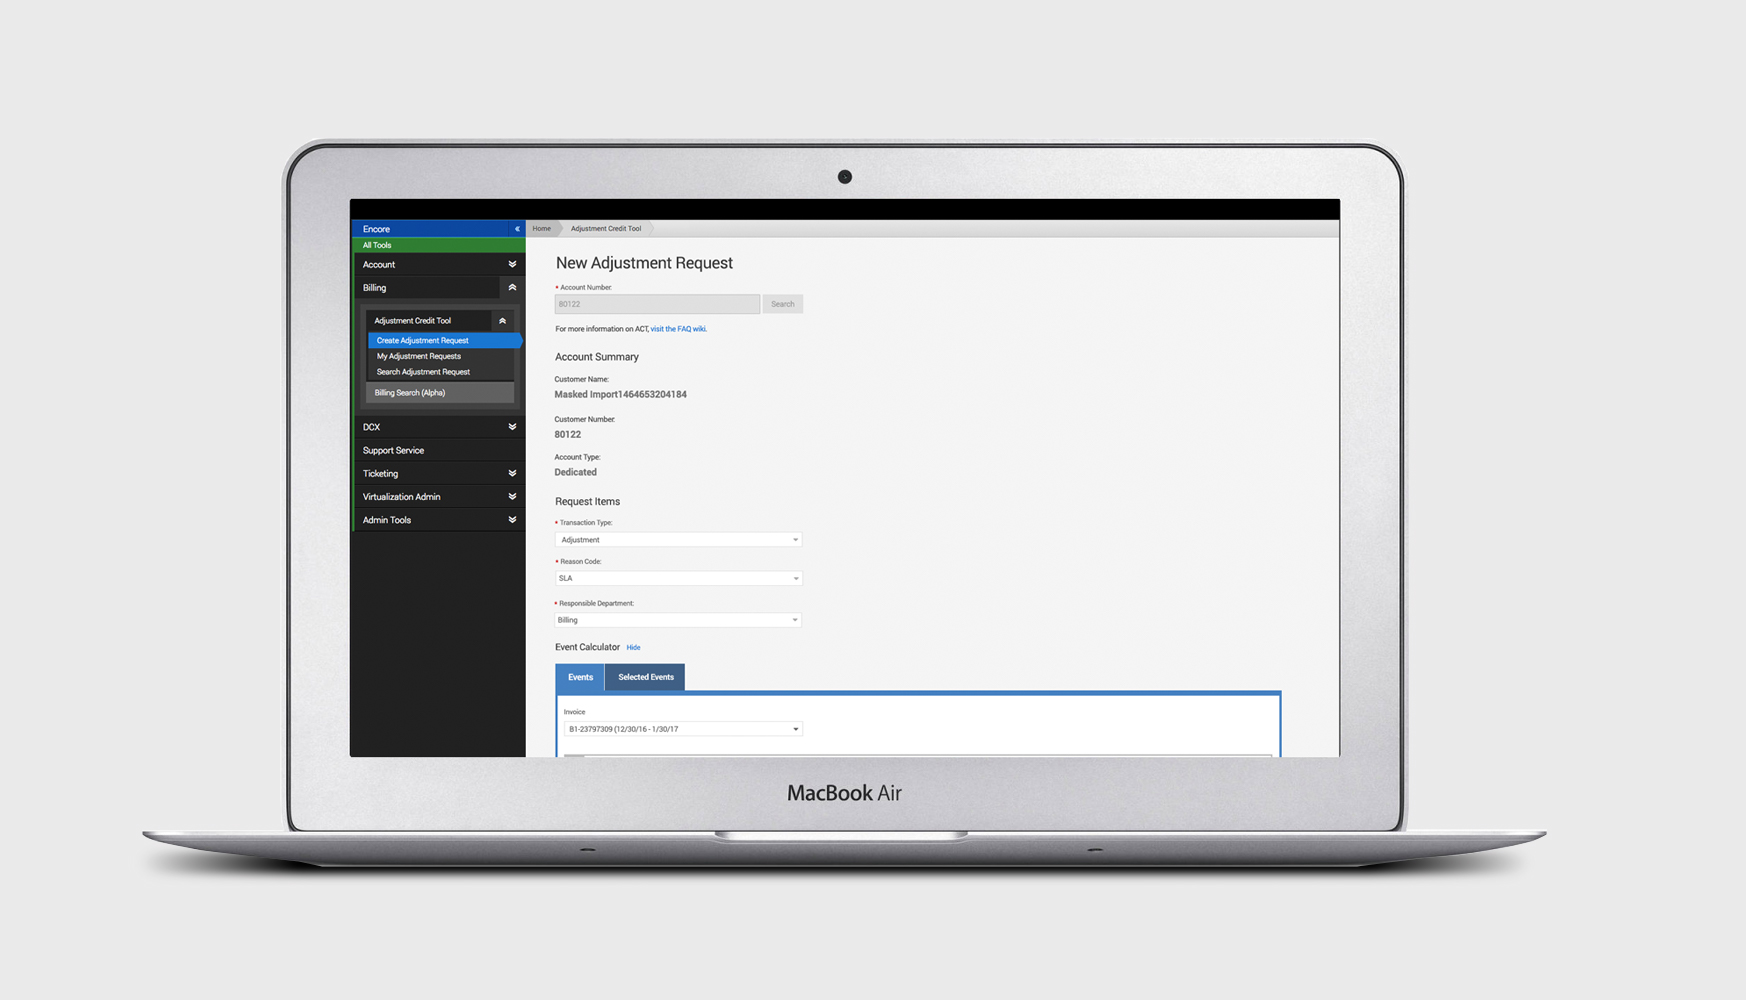
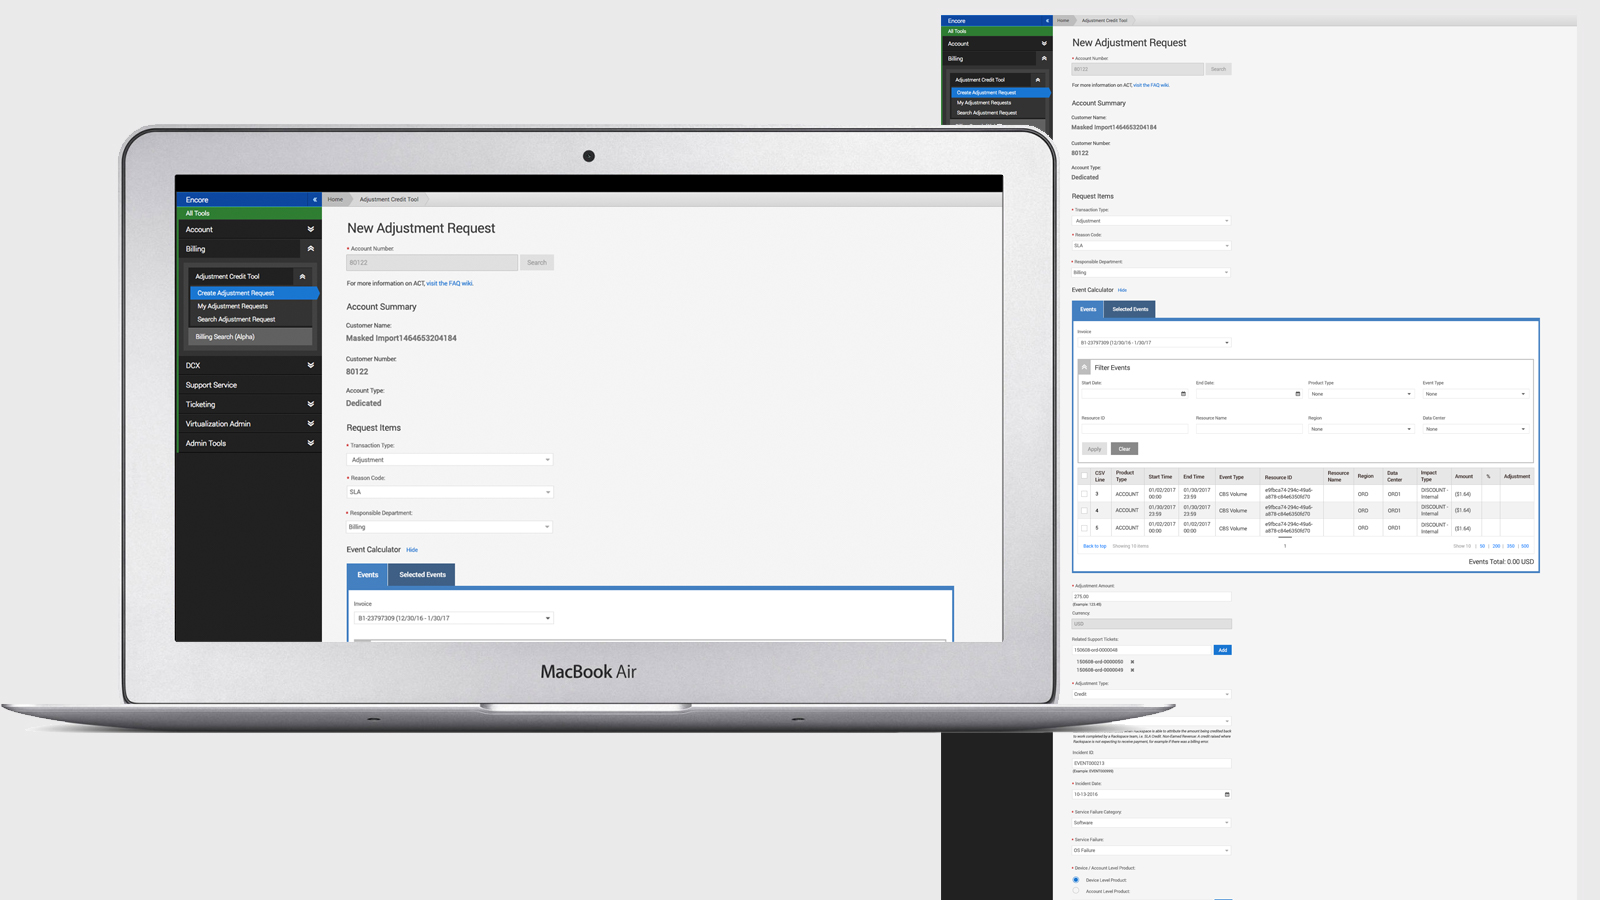
Added images

Changed region(s): [[0.0, 0.0, 0.9688, 1.0], [0.8438, 0.5289, 0.9062, 0.5911], [0.9062, 0.6222, 0.9688, 0.6533]]

diff --git a/ux-cbui.html b/ux-cbui.html
@@ -1,4 +1,4 @@
-<div class="big-title">Customer Billing UI</div>
+<div class="big-title">Rackspace<p>Customer Billing UI<br> A Single Billing Experience</div>
 
 <div class="image">
     <img src="img/CBUI-UX-1.jpg" class="img-responsive">
@@ -6,18 +6,66 @@
 
 <div class="row-text-content">
     <h1>Project Overview</h1>
-    <p>Silicon Labs is a leading global manufacturer of integrated-circuit products based here in Austin, Texas. Their technology helps power solutions for the Internet of Things, Internet infrastructure, industrial control, consumer and automotive markets.
+    <p>Rackspace has great products and no one questions their Fanatical Support for them, but their customer portals and 
+        billing portals didn’t reflect that. These were designed over 5 years ago, back when Rackspace didn’t have people 
+        in UX positions. Sure there were web designers that worked on rackspace.com but not on development teams that built 
+        out these portals. Rackspace had a team that used Bootstrap 1.0 and styled it in Rackspace colors for dev teams to use 
+        to build with but to a customer with a dedicated account and a cloud account it looked like 2 different companies. 
+        There wasn’t a style guide with design patterns to follow when they built these. The customer didn’t have a 
+        seamless experience. Business finally listened to the customers and opened up a UX team and hired a well known person 
+        in the UX community to direct the department. To make a long story short my dev team received a illustrator file of the 
+        1st draft of the new design system. We were put to task to create the new Customer Billing User Interface (CBUI). 
+        We were pioneers in the company for this new look and customer experience.  
     </p>
-    <h1>The Workshop</h1>
-    <p>Silicon Labs is a leading global manufacturer of integrated-circuit products based here in Austin, Texas. Their technology helps power solutions for the Internet of Things, Internet infrastructure, industrial control, consumer and automotive markets.
+    <br>
+    <p>
+    <h1>Competitive Analysis</h1>
+    <div class="image">
+         <img src="img/CBUI-UX-comp.jpg" class="img-responsive">
+    </div>
+    <p>We took a deep dive into the way AWS and Google Cloud Platform handle their billing. We cherry picked what we thought was their 
+        best features and came up with a dashboard design that would fit our customers. The invoice details was what Rackspace was 
+        lacking and what we really focused on. 
     </p>
-    <h1>Customer Research</h1>
-    <p>Silicon Labs is a leading global manufacturer of integrated-circuit products based here in Austin, Texas. Their technology helps power solutions for the Internet of Things, Internet infrastructure, industrial control, consumer and automotive markets.
+    <br>
+    <p>
+    <h1>Customer Research & Information Gathering</h1>
+    <div class="image">
+         <img src="img/CBUI-UX-comp-2.jpg" class="img-responsive">
+    </div>
+    <div class="image">
+         <img src="img/CBUI-UX-comp-5.jpg" class="img-responsive">
+    </div>     
+        <p>
+    <p>After doing competitive analysis on our competitors it was time to put lo-fi wires together.
+        We decided a dashboard for billing would be the best approach. Three different designs were presented to 5 customers with 
+        different personas: resellers, billing administrators and business owners. 
+        <p>
+   <div class="image">
+         <img src="img/CBUI-UX-comp-3.jpg" class="img-responsive">
+    </div>     
+        <p>
+    <div class="image">
+         <img src="img/CBUI-UX-comp-4.jpg" class="img-responsive">
+    </div>     
+        <p>
+        We captured all the feedback based upon what 
+        they would expect to see when looking at their billing. We used Mural for card sorting and designed our new wires against them. 
+        Our team then came up with hi-fi wires with clickable walkthroughs to present to dedicated and cloud customers again. 
     </p>
-    <h1>Thresholds & Approval Steps</h1>
-    <p>Silicon Labs is a leading global manufacturer of integrated-circuit products based here in Austin, Texas. Their technology helps power solutions for the Internet of Things, Internet infrastructure, industrial control, consumer and automotive markets.
+    <br>
+    <p>
+    <h1>Customer Billing is Born</h1>
+    <p>This is our final prototype that is currently in production. 10 months in the making. Research and information gathering, 
+        concept creation and iterative design, visual update and development. Very rewarding to see a concept that is brought to 
+        life and out in production providing great value and experience to our customers.
     </p>
-    <h1>Event Calculator</h1>
-    <p>Silicon Labs is a leading global manufacturer of integrated-circuit products based here in Austin, Texas. Their technology helps power solutions for the Internet of Things, Internet infrastructure, industrial control, consumer and automotive markets.
-    </p>
+     <div class="image">
+         <img src="img/CBUI-UX-comp-6.jpg" class="img-responsive">
+    </div> 
+    <p>
+    <div class="image">
+         <img src="img/CBUI-UX-comp-7.jpg" class="img-responsive">
+    </div> 
+    <br>
 </div>

diff --git a/ux-act.html b/ux-act.html
@@ -1,4 +1,4 @@
-<div class="big-title">Adjustment Credit Tool</div>
+<div class="big-title">Rackspace<p>Adjustment and Credit Tool</div>
 
 <div class="image">
     <img src="img/ACT-UX-1.jpg" class="img-responsive">
@@ -6,18 +6,61 @@
 
 <div class="row-text-content">
     <h1>Project Overview</h1>
-    <p>Silicon Labs is a leading global manufacturer of integrated-circuit products based here in Austin, Texas. Their technology helps power solutions for the Internet of Things, Internet infrastructure, industrial control, consumer and automotive markets.
+    <p>Support and Billing Rackers needed a better tool to give customers credits and adjustments.  
+The previous tool was outdated and not user friendly. That much was clear. It’s design was beginning to show its age and wasn’t useful 
+for cloud customer adjustments. For cloud customer adjustments and credits had to be done manually. This took a ton of time for Rackers 
+to get these done. Business came to our team with requirements to roll out a tool that will be featured on the company’s new internal 
+framework called Encore.
     </p>
-    <h1>The Workshop</h1>
-    <p>Silicon Labs is a leading global manufacturer of integrated-circuit products based here in Austin, Texas. Their technology helps power solutions for the Internet of Things, Internet infrastructure, industrial control, consumer and automotive markets.
+    <br>
+    <h1>Why are we building this?</h1>
+    <p>To simply put it, we needed to help our customers faster with adjustments. Giving frontline Support Rackers a better tool to speed up the process 
+        will make the customers happy and free up Rackers time to do more run of the business tasks. 
     </p>
-    <h1>Workflows</h1>
-    <p>Silicon Labs is a leading global manufacturer of integrated-circuit products based here in Austin, Texas. Their technology helps power solutions for the Internet of Things, Internet infrastructure, industrial control, consumer and automotive markets.
+    <br>
+    <h1>Workflows and Content</h1>
+     <div class="image">
+         <img src="img/ACT-UX-comp-1.jpg" class="img-responsive">
+    </div> 
+    <p>
+    <div class="image">
+         <img src="img/ACT-UX-comp-2.jpg" class="img-responsive">
+    </div> 
+    </p>    
+    <div class="image">
+         <img src="img/ACT-UX-comp-3.jpg" class="img-responsive">
+    </div> 
+    <br>
+    <p>Once our BA gathered all of the requirements from a week long kaizen meeting, I was tasked to come up with workflows. 
+        Adjustment and credit tool (ACT) is a complex orchestration workflow engine in a way. At the surface you might picture or 
+        think that it is just a typical form that you see everyday. There are multiple backend systems and databases that it has to 
+        pull information. Also there is a Racker’s role to consider, threshold amounts and approval groups. To give some context I have 
+        attached an <a href="https://invis.io/8U551EG92" target="_blank" style="color:#FF4081">Invision link</a> to show the workflows.
     </p>
-    <h1>Thresholds & Approval Steps</h1>
-    <p>Silicon Labs is a leading global manufacturer of integrated-circuit products based here in Austin, Texas. Their technology helps power solutions for the Internet of Things, Internet infrastructure, industrial control, consumer and automotive markets.
+    <br>
+    <h1>The Design</h1>
+    <p>After I hammered out the flows it was time to present some wires. I used a program called OmniGraffle to create lo fidelity 
+        wireframes to show an overview of the ACT form to business. Once the business approves the wires or has feedback, I edit and 
+        meet again with business to get them to sign off on them. Within the form there is complex components associated with the 
+        creation of the request. For example depending on your role i.e a Support Racker or a Billing Racker you will see different 
+        form fields. I presented multiple use cases for each role. To begin with the Racker has to enter an account number. Once the 
+        account number is validated a dedicated or a cloud request is initiated. As the Racker fills out the form, one of the first 
+        inputs is the Reason Code field. This field drives the request and has a effect on what other fields are shown and populated. 
+        After the request form is filled out then there is a detail view showing what was in the form request.  I then open up either 
+        Photoshop, Illustrator or Sketch to layout hi fidelity wireframes complete with Invision walkthroughs. 
     </p>
-    <h1>Event Calculator</h1>
-    <p>Silicon Labs is a leading global manufacturer of integrated-circuit products based here in Austin, Texas. Their technology helps power solutions for the Internet of Things, Internet infrastructure, industrial control, consumer and automotive markets.
-    </p>
+    <div class="image">
+         <img src="img/ACT-UX-comp-4.jpg" class="img-responsive">
+    </div> 
+    <br>
+        <div class="image">
+         <img src="img/ACT-UX-comp-5.jpg" class="img-responsive">
+    </div> 
+    <br>
+    <div class="image">
+         <img src="img/ACT-UX-comp-6.jpg" class="img-responsive">
+    </div> 
+    <br>
 </div>
+<br>
+<br>

diff --git a/index.html b/index.html
@@ -49,19 +49,11 @@
         <li>
             <strong>Photography</strong>
             <ul>
-                <li><a href="#">Aloft Hotel</a></li>
-                <li><a href="#">Stash Magazine</a></li>
-                <li><a href="#">21inSA</a></li>
-                <li><a href="#">Ivory Lounge</a></li>
             </ul>
         </li>
         <li>
             <strong>3D</strong>
             <ul>
-                <li><a href="#">Aloft Hotel</a></li>
-                <li><a href="#">Stash Magazine</a></li>
-                <li><a href="#">21inSA</a></li>
-                <li><a href="#">Ivory Lounge</a></li>
             </ul>
         </li>
         <li>
@@ -79,7 +71,6 @@
             <a class="sidedrawer-toggle mui--visible-xs-inline-block mui--visible-sm-inline-block js-show-sidedrawer">☰</a>
             <a class="sidedrawer-toggle mui--hidden-xs mui--hidden-sm js-hide-sidedrawer">☰</a>
             <span class="mui--text-title">Darrell McKee UX / UI Designer</span>
-            <span class="mui--text-title mui--visible-xs-inline-block mui--visible-sm-inline-block">Brand.io</span>
         </div>
     </div>
 </header>
@@ -96,7 +87,7 @@
     <footer class="footer-distributed" id="footer">
         <div class="footer-left">
             <img class="img-responsive-footer" src="img/DM-logo-m-grey.png">
-            <p class="footer-company-name">darrellmckee.com &copy; 2017</p>
+            <p class="footer-company-name">mckeethedesigner.com &copy; 2017</p>
         </div>
         <div class="footer-center">
             <div>
@@ -109,7 +100,7 @@
             </div>
             <div>
                 <i class="fa fa-envelope"></i>
-                <p><a href="mailto:hello@darrellmckee.com">hello@darrellmckee.com</a></p>
+                <p><a href="mailto:hello@darrellmckee.com">hello@mckeethedesigner.com</a></p>
             </div>
         </div>
         <div class="footer-right">

diff --git a/home.html b/home.html
@@ -2,8 +2,8 @@
     <div class="big-title-home">Hey, I'm Darrell</div>
     <div class="bio-sub-title">UX / UI Designer and a great team player.</div>
     <div class="mui-row">
-        <div class="mui-col-md-4 mui-col-xs-4">
-            <img class="img-responsive" src="img/Profile-Pic-1.jpg">
+        <div class="mui-col-md-4">
+            <img class="img-responsive" style="min-width: 60%" src="img/Profile-Pic-1.jpg">
         </div>
         <div class="mui-col-md-8 mui-col-xs-8">
             <div class="bio-text-container">

diff --git a/css/styles.css b/css/styles.css
@@ -6,9 +6,10 @@
 
 .img-responsive {
     max-width:100% !important;
-    height:auto;   !important;
-
+    height:auto;
+    display:block;
 }
+
 .img-responsive-footer {
     max-width:100% !important;
     height:auto;   !important;
@@ -20,7 +21,6 @@
 .content-container{
     margin-left: -20px;
     margin-right: -20px;
-
 }
 
 .section-divider {
@@ -36,7 +36,7 @@
 }
 
  .image {
-     width: 1160px;
+     max-width: 1160px;
      margin-left: auto;
      margin-right: auto;
      margin-top: 50px;

diff --git a/ux-cbui-toolkit.html b/ux-cbui-toolkit.html
@@ -1,0 +1,13 @@
+<div class="big-title">Rackspace<p>Customer Billing UI<br> Sticker Sheet & Developer Style Guide</div>
+
+<div class="image">
+    
+</div>
+
+<div class="row-text-content">
+    <h1>Project Overview</h1>
+    <p>
+
+    </p>
+    
+</div>
